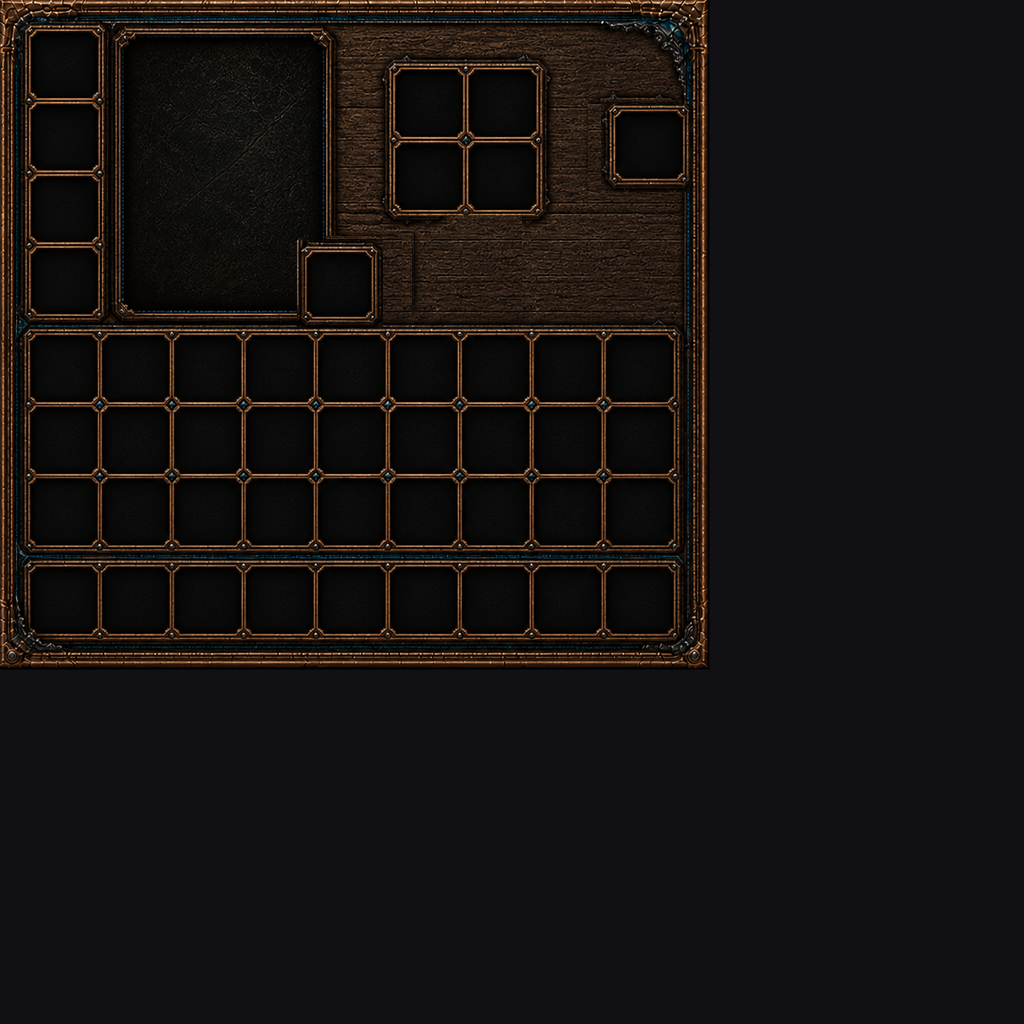
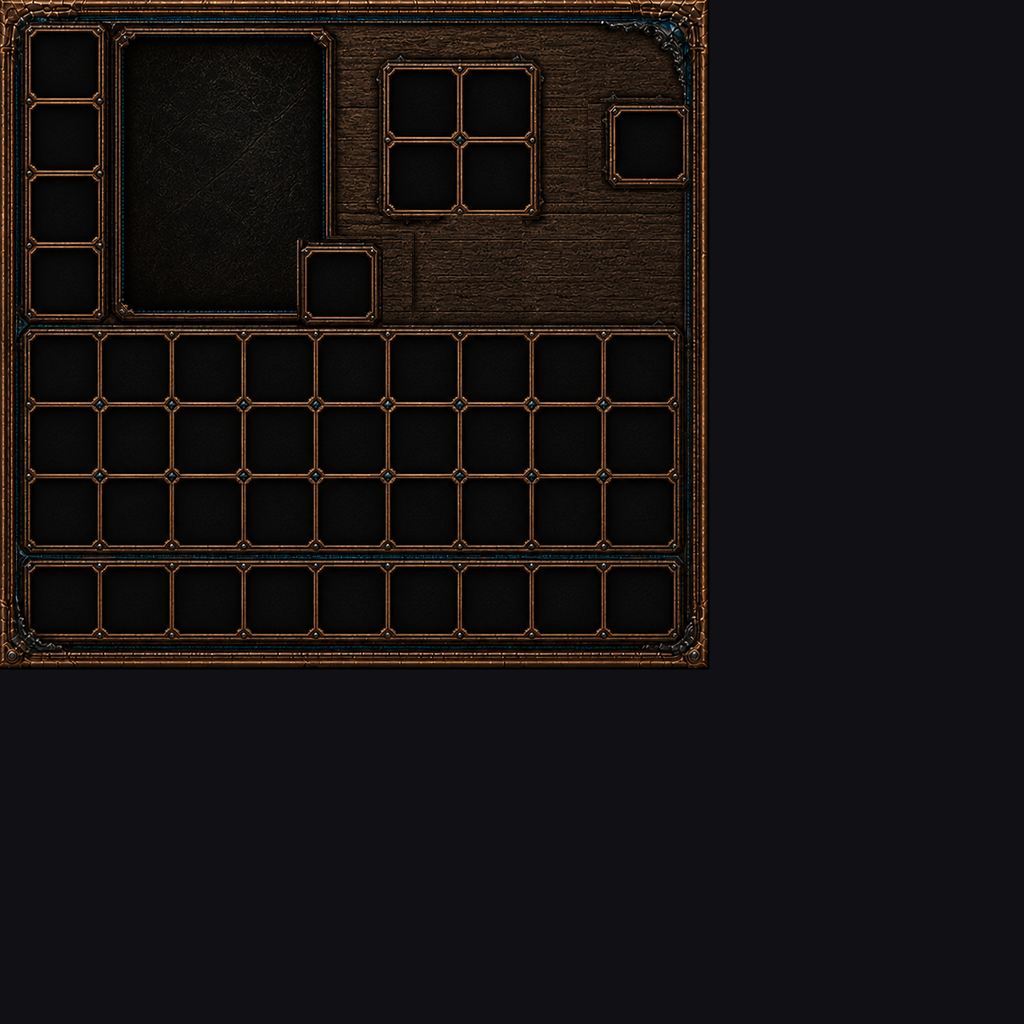
mvnx: 촬영장 방향 정렬 + 절대각 유지 — 말춤이 안 나오던 이유
유저 지적("전혀 강남스타일 같지 않다, 핵심은 손 모으는 말춤"). 원인 4개를
차례로 잡았고, 그중 셋은 리타게팅 일반 원칙이라 기록해 둔다.

1. ★평균중심화가 시그니처 포즈를 지웠다. 강남스타일은 '두 손 모아 앞으로'를
   계속 유지하는 춤이라 그 자세가 곧 평균이다. 빼면 남는 게 흔들림뿐이라
   팔 내리고 흔드는 춤이 된다. 방향벡터 기반 겨냥각은 이미 '아래=0'인 절대값이라
   중심화하면 안 된다(A() 경로 신설, 중심화는 비틀림 등 기준이 임의인 채널만).

2. ★MVN 전역 좌표계는 사람이 아니라 '방' 기준이다. 피험자가 촬영장에서 어느
   방향을 보고 섰는지에 따라 '앞'이 우리 +Z와 어긋나, 좌우 다리가 -19/+29도로
   벌어진 채 고정되고 몸이 계속 기울어 보였다. 구간 평균 어깨선으로 상수 yaw를
   재서 좌표를 미리 회전(프레임별 잔여 회전은 그대로 twist).

3. 팔다리의 부모 회전을 걷어낼 때 보정 전 몸통 각을 써서, 척추의 자연 굽음이
   팔다리로 전가됐다. 기준자세 보정을 루프 안에서 먼저 하도록 순서 교체.

4. 다리는 허리가 아니라 player_root 직계 자식(rig-conventions.md)인데 몸통 회전을
   걷어내고 있었다. 월드 방향 그대로 사용.

부수: 캘리브레이션 프레임은 이름이 npose여도 실제로는 T포즈라 팔다리 기준으로
쓰면 안 된다(척추·머리에만 적용). 다리 벌림 상수(~20도 안쪽)는 사람 골반 구조라
박스 리그에선 다리가 꼬여 보여 중심화.

Changed region(s): [[0.3438, 0.0312, 0.5625, 0.2188]]

diff --git a/.claude/skills/mocap-emote/scripts/mvnx_retarget.py b/.claude/skills/mocap-emote/scripts/mvnx_retarget.py
@@ -61,20 +61,24 @@ class Mvnx:
         self.fps = float(subj.get("frameRate", "240"))
         self.labels = [s.get("label") for s in subj.find("m:segments", NS).findall("m:segment", NS)]
         self.idx = {lab: i for i, lab in enumerate(self.labels)}
-        self.quats, self.pos, self.rest = [], [], None
+        self.quats, self.pos, self.rest, self.rest_pos = [], [], None, None
         for fr in subj.find("m:frames", NS).findall("m:frame", NS):
             o = [float(v) for v in fr.find("m:orientation", NS).text.split()]
             q = [tuple(o[i * 4:i * 4 + 4]) for i in range(len(self.labels))]
-            if fr.get("type") != "normal":
-                # npose/tpose = 캘리브레이션 자세. 모션 프레임에선 빼되 ★기준자세로 보관한다.
-                if self.rest is None:
-                    self.rest = q
-                continue
             p = [float(v) for v in fr.find("m:position", NS).text.split()]
+            pos = [tuple(p[i * 3:i * 3 + 3]) for i in range(len(self.labels))]
+            if fr.get("type") != "normal":
+                # npose/tpose = 캘리브레이션(차렷) 자세. 모션에선 빼되 ★기준자세로 보관한다.
+                # 위치까지 보관하는 게 중요하다 — 사람 척추는 자연스레 굽어 있어서 절대
+                # 겨냥각에 10~20도 상수 기울기가 섞이고, 우리 리그의 수직 박스 기준으로는
+                # 그게 "계속 앞으로 접힌 자세"로 보인다. 이 기준자세 각을 빼야 0=차렷이 된다.
+                if self.rest is None:
+                    self.rest, self.rest_pos = q, pos
+                continue
             self.quats.append(q)
-            self.pos.append([tuple(p[i * 3:i * 3 + 3]) for i in range(len(self.labels))])
+            self.pos.append(pos)
         if self.rest is None:
-            self.rest = self.quats[0]
+            self.rest, self.rest_pos = self.quats[0], self.pos[0]
 
     def local(self, f, child, parent):
         qc = self.quats[f][self.idx[child]]
@@ -180,70 +184,127 @@ def build_pos(mv, start, n, step, arm_ex=1.0, spine_ex=1.2, head_ex=1.5, hip_ex=
     L = times[-1]
     I = mv.idx
 
-    def P(f, seg):
-        return to_ours(mv.pos[f][I[seg]])
+    # ★촬영장 기준 방향을 우리 모델의 정면(+Z)에 맞춘다.
+    # MVN 전역 좌표계는 사람이 아니라 **방** 기준이라, 피험자가 어느 쪽을 보고 섰는지에 따라
+    # "앞"이 우리 +Z와 어긋난다. 그대로 쓰면 좌우 다리가 벌어진 채 고정되고(우 -19도/좌 +29도)
+    # 몸이 계속 기울어 보인다 — 실제로 강남스타일이 그렇게 나왔다. 구간 평균 어깨선 방향으로
+    # 상수 yaw를 재서 모든 좌표를 미리 돌려 놓는다(프레임별 잔여 회전은 그대로 twist가 된다).
+    def raw(f, seg):
+        return to_ours(mv.rest_pos[I[seg]] if f == -1 else mv.pos[f][I[seg]])
 
-    ch = {k: [] for k in ("waist_x", "waist_z", "chest_x", "chest_z", "twist",
-                           "pra_x", "pra_z", "pla_x", "pla_z", "prl_x", "prl_z", "pll_x", "pll_z",
-                           "prfa", "plfa", "prfl", "plfl", "rx", "ry", "rz", "head_x", "head_y")}
+    ys = []
     for f in idxs:
+        sh = sub(raw(f, "LeftShoulder"), raw(f, "RightShoulder"))
+        ys.append(math.atan2(sh[2], sh[0]))
+    # 각도 평균은 원형이라 벡터 평균으로 낸다(179도와 -179도의 산술평균은 0이 되어버림)
+    my = math.atan2(sum(math.sin(v) for v in ys), sum(math.cos(v) for v in ys))
+    face = my - math.pi          # 정면 기준(어깨선이 -X를 향할 때가 정면)
+    ca, sa = math.cos(-face), math.sin(-face)
+
+    def P(f, seg):
+        x, y, z = raw(f, seg)
+        return (x * ca + z * sa, y, -x * sa + z * ca)
+
+    KEYS = ("waist_x", "waist_z", "chest_x", "chest_z", "twist",
+            "pra_x", "pra_z", "pla_x", "pla_z", "prl_x", "prl_z", "pll_x", "pll_z",
+            "prfa", "plfa", "prfl", "plfl", "rx", "ry", "rz", "head_x", "head_y")
+    ch = {k: [] for k in KEYS}
+    # ★기준자세(차렷)에서의 같은 각도 — 아래 루프가 끝난 뒤 전부 빼서 "0=차렷"으로 맞춘다.
+    rest_ch = {k: [] for k in KEYS}
+    base_spine = [0.0, 0.0, 0.0, 0.0]   # 기준자세의 (wx, wz, cx, cz)
+    for f in [-1] + idxs:          # -1 = 기준자세
+        into = rest_ch if f == -1 else ch
         pelvis, t8, neck = P(f, "Pelvis"), P(f, "T8"), P(f, "Neck")
         # 몸통: 골반->T8이 허리, T8->목이 가슴. 좌우 어깨선으로 몸 전체 비틀림.
         wx, wz = dir_to_xz([-c for c in sub(t8, pelvis)])   # 위로 뻗은 축이라 부호 반전
         cx, cz = dir_to_xz([-c for c in sub(neck, t8)])
-        ch["waist_x"].append(wx); ch["waist_z"].append(wz)
-        ch["chest_x"].append(cx - wx); ch["chest_z"].append(cz - wz)
+        if f == -1:
+            base_spine[:] = [wx, wz, cx, cz]
+        else:
+            # ★기준자세(차렷)의 척추 굽음을 여기서 바로 뺀다. 나중에 빼면 늦다 —
+            # 아래에서 팔다리의 부모 회전을 걷어낼 때 이 각도를 쓰기 때문에, 보정 전
+            # 값을 쓰면 척추의 자연 굽음이 팔다리 각도로 그대로 전가된다(다리가 계속
+            # 19도 뒤로 가 있어서 몸이 앞으로 꺾여 보였다).
+            wx -= base_spine[0]; wz -= base_spine[1]
+            cx -= base_spine[2]; cz -= base_spine[3]
+        into["waist_x"].append(wx); into["waist_z"].append(wz)
+        into["chest_x"].append(cx - wx); into["chest_z"].append(cz - wz)
         sh = sub(P(f, "LeftShoulder"), P(f, "RightShoulder"))
-        ch["twist"].append(math.degrees(math.atan2(sh[2], sh[0])))
+        into["twist"].append(math.degrees(math.atan2(sh[2], sh[0])))
         hd = sub(P(f, "Head"), neck)
-        ch["head_x"].append(dir_to_xz([-c for c in hd])[0])
-        ch["head_y"].append(0.0)
+        into["head_x"].append(dir_to_xz([-c for c in hd])[0])
+        into["head_y"].append(0.0)
 
         # 팔다리: 부모(가슴/골반) 회전을 걷어낸 뒤 겨냥각을 뽑는다.
-        par = pr.euler_mat(cx, 0, cz)
-        parT = mat_t(par)
-        hip = pr.euler_mat(wx, 0, wz)
-        hipT = mat_t(hip)
+        # 팔은 가슴의 자식이라 가슴의 절대 회전을 걷어내야 로컬 각이 된다.
+        parT = mat_t(pr.euler_mat(cx, 0, cz))
+        # ★다리는 다르다 — rig-conventions.md대로 prl/pll은 허리가 아니라 player_root의
+        # 직계 자식이라 몸통 회전을 물려받지 않는다. 그래서 걷어내면 안 되고 월드 방향을
+        # 그대로 쓴다(걷어냈더니 척추 기울기가 다리로 전가돼 우/좌가 -19도/+25도로
+        # 벌어진 채 고정됐다). 루트 비틀림(Y)은 방향의 X/Z 성분에 영향이 작아 무시.
+        hipT = [[1, 0, 0], [0, 1, 0], [0, 0, 1]]
         for side, up, low, end, k in (("R", "RightUpperArm", "RightForeArm", "RightHand", "pra"),
                                        ("L", "LeftUpperArm", "LeftForeArm", "LeftHand", "pla")):
             d = pr.mat_vec(parT, list(sub(P(f, low), P(f, up))))
             ax, az = dir_to_xz(d)
-            ch[k + "_x"].append(ax); ch[k + "_z"].append(az)
+            into[k + "_x"].append(ax); into[k + "_z"].append(az)
             bend = angle_between(sub(P(f, low), P(f, up)), sub(P(f, end), P(f, low)))
-            ch["prfa" if side == "R" else "plfa"].append(bend)
+            into["prfa" if side == "R" else "plfa"].append(bend)
         for side, up, low, end, k in (("R", "RightUpperLeg", "RightLowerLeg", "RightFoot", "prl"),
                                        ("L", "LeftUpperLeg", "LeftLowerLeg", "LeftFoot", "pll")):
             d = pr.mat_vec(hipT, list(sub(P(f, low), P(f, up))))
             ax, az = dir_to_xz(d)
-            ch[k + "_x"].append(ax); ch[k + "_z"].append(az)
+            into[k + "_x"].append(ax); into[k + "_z"].append(az)
             bend = angle_between(sub(P(f, low), P(f, up)), sub(P(f, end), P(f, low)))
-            ch["prfl" if side == "R" else "plfl"].append(bend)
+            into["prfl" if side == "R" else "plfl"].append(bend)
         p = P(f, "Pelvis")
-        ch["rx"].append(p[0]); ch["ry"].append(p[1]); ch["rz"].append(p[2])
+        into["rx"].append(p[0]); into["ry"].append(p[1]); into["rz"].append(p[2])
+
+    # ★기준자세 빼기 = "0은 차렷 자세". 평균 빼기(옛 방식)와 결정적으로 다르다:
+    # 강남스타일처럼 한 자세를 오래 유지하는 춤은 그 자세가 곧 평균이라, 평균을 빼면
+    # 시그니처 포즈가 통째로 사라진다(실제로 '두 손 모아 앞으로'가 지워져서 팔 내리고
+    # 흔드는 춤이 나왔다). 기준자세는 클립 내용과 무관한 상수라 그런 일이 없다.
+    # ★척추·머리에만 적용한다. MVNX의 캘리브레이션 프레임은 이름이 npose라도 실제로는
+    # **T포즈(팔 수평)** 라서, 팔다리에까지 빼면 차렷이 -90도로 읽혀 팔이 뒤틀린다(실측).
+    # 팔다리는 애초에 보정이 필요 없다 — dir_to_xz의 0도가 "곧게 아래"이고 그게 우리 리그의
+    # 쉬는 자세와 정확히 같다.
+    for k in ("head_x",):        # 척추는 루프 안에서 이미 보정됨
+        base = rest_ch[k][0]
+        ch[k] = [v - base for v in ch[k]]
 
     m2u = 30.0 / 1.75
     win = max(3, (len(idxs) // 2) | 1)
 
     def C(key, ex, lo, hi, dead=2.0):
+        """평균중심화 경로 — ★비틀림처럼 '전역 기준이 임의'인 채널에만 쓸 것."""
         sm = R.smooth(ch[key])
         m = R.mean(sm)
         d = R.deadzone([v - m for v in sm], dead)
         return R.clamp([v * ex for v in d], lo, hi)
 
-    waist_x = C("waist_x", spine_ex, -30, 30); waist_z = C("waist_z", spine_ex, -25, 25)
-    chest_x = C("chest_x", spine_ex, -30, 30); chest_z = C("chest_z", spine_ex, -25, 25)
+    def A(key, ex, lo, hi):
+        """★절대 각도 경로(기본). 방향벡터로 뽑은 겨냥각은 이미 '쉬는 자세=0'인
+        해부학적 절대값이라 평균중심화하면 안 된다 — 유지되는 자세(강남스타일의
+        '두 손 모아 앞으로' 같은)는 거의 상수라서 평균을 빼면 통째로 사라진다.
+        실제로 그래서 말춤이 팔 내리고 흔드는 춤으로 나왔다(2026-08-12)."""
+        return R.clamp([v * ex for v in R.smooth(ch[key])], lo, hi)
+
+    waist_x = A("waist_x", spine_ex, -30, 30); waist_z = A("waist_z", spine_ex, -25, 25)
+    chest_x = A("chest_x", spine_ex, -30, 30); chest_z = A("chest_z", spine_ex, -25, 25)
+    # 비틀림만 중심화 — 촬영장에서 어느 방향을 보고 섰는지는 임의값이라 상수 성분에 의미가 없다.
     twist = C("twist", twist_ex, -35, 35, 1.5)
-    pra_x = R.clamp([15 + v for v in C("pra_x", arm_ex, -180, 180, 3)], -60, 130)
-    pla_x = R.clamp([15 + v for v in C("pla_x", arm_ex, -180, 180, 3)], -60, 130)
-    pra_z = R.clamp([20 + v for v in C("pra_z", arm_ex, -180, 180, 3)], -25, 135)
-    pla_z = R.clamp([-20 + v for v in C("pla_z", arm_ex, -180, 180, 3)], -135, 25)
-    prl_x = R.clamp([8 + v for v in C("prl_x", hip_ex, -180, 180, 3)], -25, 90)
-    pll_x = R.clamp([8 + v for v in C("pll_x", hip_ex, -180, 180, 3)], -25, 90)
-    prl_z = C("prl_z", hip_ex, -22, 22, 3); pll_z = C("pll_z", hip_ex, -22, 22, 3)
-    prfa = R.clamp([8 + v for v in R.debias(R.smooth(ch["prfa"]))], 0, 120)
-    plfa = R.clamp([8 + v for v in R.debias(R.smooth(ch["plfa"]))], 0, 120)
-    prfl = R.clamp(R.debias(R.smooth(ch["prfl"])), 0, 110)
-    plfl = R.clamp(R.debias(R.smooth(ch["plfl"])), 0, 110)
+    pra_x = A("pra_x", arm_ex, -60, 130); pla_x = A("pla_x", arm_ex, -60, 130)
+    pra_z = A("pra_z", arm_ex, -135, 135); pla_z = A("pla_z", arm_ex, -135, 135)
+    prl_x = A("prl_x", hip_ex, -25, 90); pll_x = A("pll_x", hip_ex, -25, 90)
+    # ★다리 벌림(Z)만은 중심화한다. 사람 허벅지는 원래 안쪽으로 10~20도 기울어 있는데
+    # (골반이 무릎보다 넓다) 우리 리그는 다리 박스 둘이 딱 붙어 있어서 그 상수를 그대로
+    # 주면 두 다리가 30초 내내 교차한 채 꼬여 보인다. 흔들림(변화분)만 남긴다.
+    prl_z = C("prl_z", hip_ex, -25, 25, 1.0); pll_z = C("pll_z", hip_ex, -25, 25, 1.0)
+    # 굽힘은 두 세그먼트 사이의 기하학적 각도라 0=쭉 편 상태. debias 불필요.
+    prfa = R.clamp(R.smooth(ch["prfa"]), 0, 120)
+    plfa = R.clamp(R.smooth(ch["plfa"]), 0, 120)
+    prfl = R.clamp(R.smooth(ch["prfl"]), 0, 110)
+    plfl = R.clamp(R.smooth(ch["plfl"]), 0, 110)
 
     root_x = R.clamp(R.highpass([v * m2u for v in ch["rx"]], win), -root_xz_max, root_xz_max)
     root_z = R.clamp(R.highpass([v * m2u for v in ch["rz"]], win), -root_xz_max, root_xz_max)

diff --git a/gui-forge/prep_inventory_bg.py b/gui-forge/prep_inventory_bg.py
@@ -63,11 +63,20 @@ def heal(im, box, dx, dy, src):
     im.paste(sprite, (x0 + dx, y0 + dy))
 
 
-# ★조합 2x2 + 결과 칸을 '넓히는' 시도는 접었다(2026-08-11).
-#   구멍이 아이콘 상자보다 5~7px 작아 아이콘이 테두리를 덮는데, 중심은 1.5px 안쪽으로
-#   맞아 있다. 넓히려면 액자를 바깥으로 밀어야 하고 2x2 는 가운데 구분선을 공유해서
-#   그걸 깎아먹는다 — 같은 수법으로 분해창 초록판을 파먹은 직후라 안 한다.
-#   제대로 맞추려면 구멍 64px 로 다시 받아야 한다(발주서에 그 규격을 박아 뒀다).
+# 조합 2x2 는 **넓히는 게 아니라 옮기는 문제**였다(2026-08-11 재측정).
+#   처음엔 '구멍이 5~7px 작다'고 보고 손대지 않았는데, 픽셀을 직접 떠 보니 그게 아니었다.
+#     왼쪽 테두리 390~394 · 가운데 구분선 463~468 · 오른쪽 테두리 536~541
+#     목표(바닐라)                    구분선 456~463
+#   구분선이 6px 오른쪽이다 — 액자가 통째로 밀린 것이고, 폭은 거의 맞다.
+#   세로는 가운데 가로선이 137~142(목표 136~143)로 이미 정확해서 건드리지 않는다.
+#   블록째 -6px 밀면 구분선을 깎지 않고도 네 칸이 한꺼번에 맞는다.
+#   ★블록은 **액자 바깥 장식(모서리쇠·못)까지** 넉넉히 물어야 한다. 좁게 잡았더니 오른쪽
+#     장식이 잘려 제자리에 조각으로 남았다. 대신 오른쪽 끝은 레시피책 지움 영역(y216~)을
+#     건드리지 않게 216 에서 끊는다.
+#   ★자국을 따로 덮지 않는다 — 블록에 배경 여유를 함께 물려 옮기면 6px 띠는 원본 배경
+#     그대로 남아 이어진다. 덮으려다 옛 테두리를 복제하는 사고를 두 번 냈다.
+CRAFT_BLOCK = (376, 44, 560, 216)
+CRAFT_DX = -6
 
 def main():
     raw = Image.open(RAW).convert("RGB")
@@ -94,6 +103,10 @@ def main():
 
     for box, dx, dy, src in MOVES:
         heal(im, box, dx, dy, src)
+
+    # 조합 2x2 액자를 통째로 왼쪽으로 — 옮긴 뒤 오른쪽에 남는 띠만 나뭇결로 덮는다.
+    x0, y0, x1, y1 = CRAFT_BLOCK
+    im.paste(im.crop(CRAFT_BLOCK), (x0 + CRAFT_DX, y0))
 
     os.makedirs(os.path.dirname(OUT), exist_ok=True)
     im.convert("RGBA").save(OUT)
